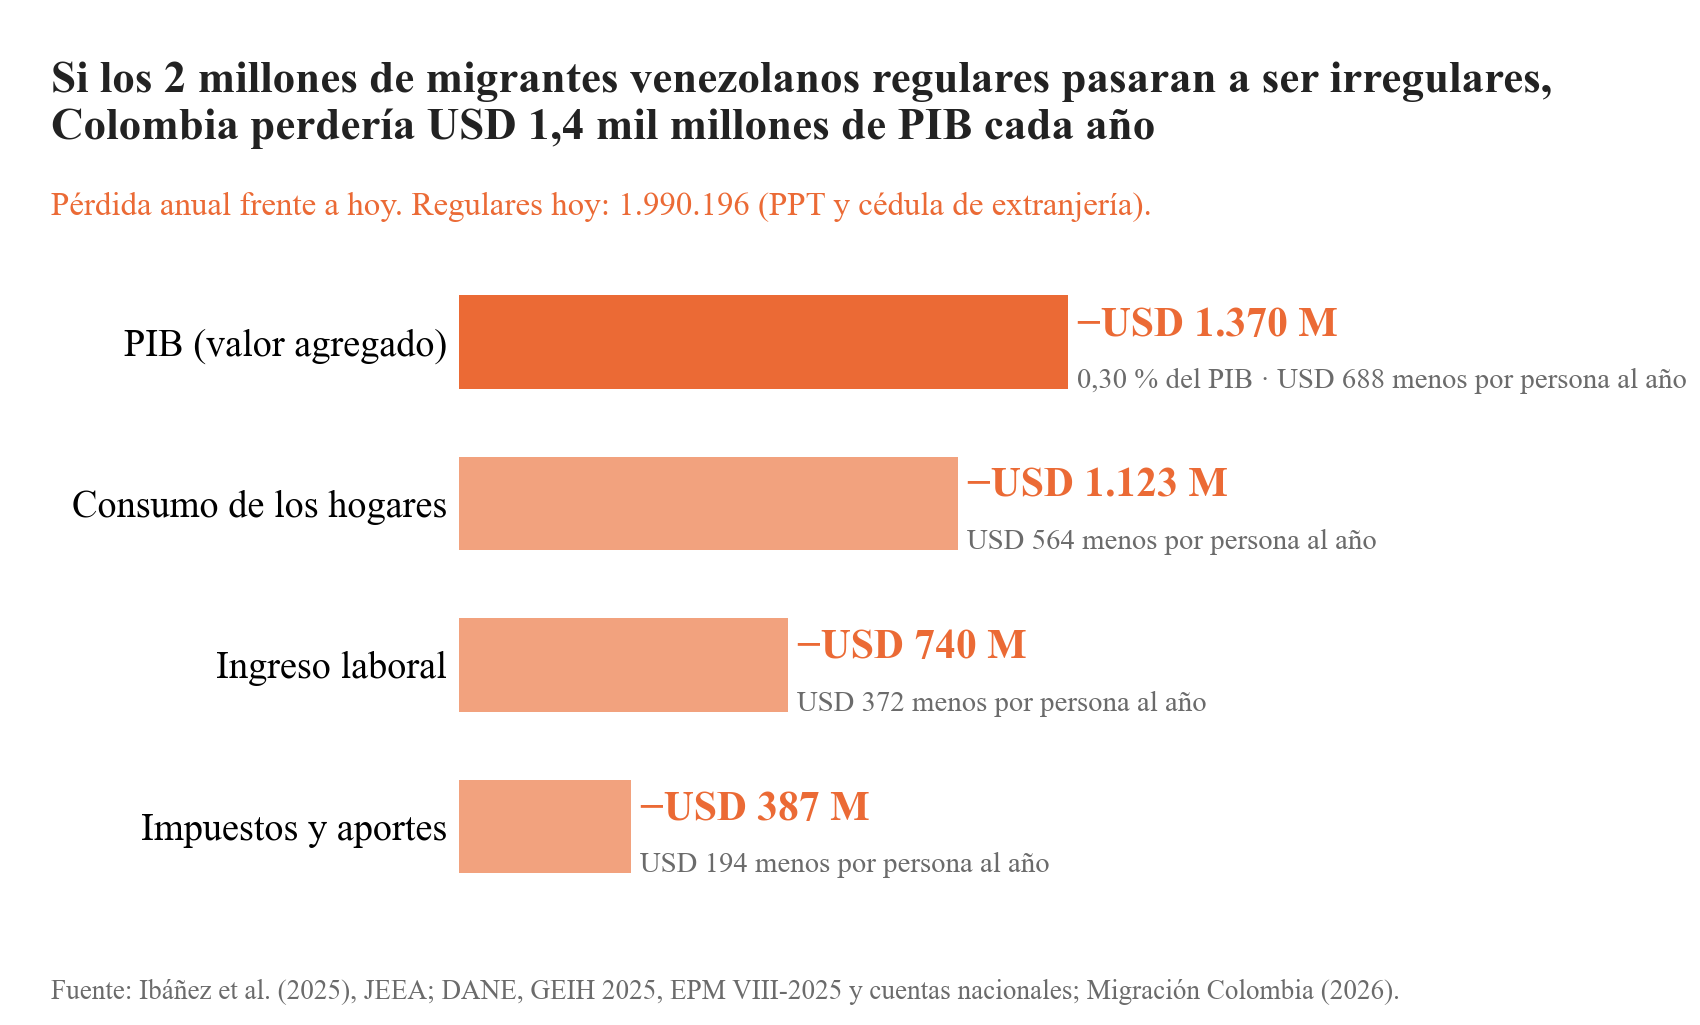
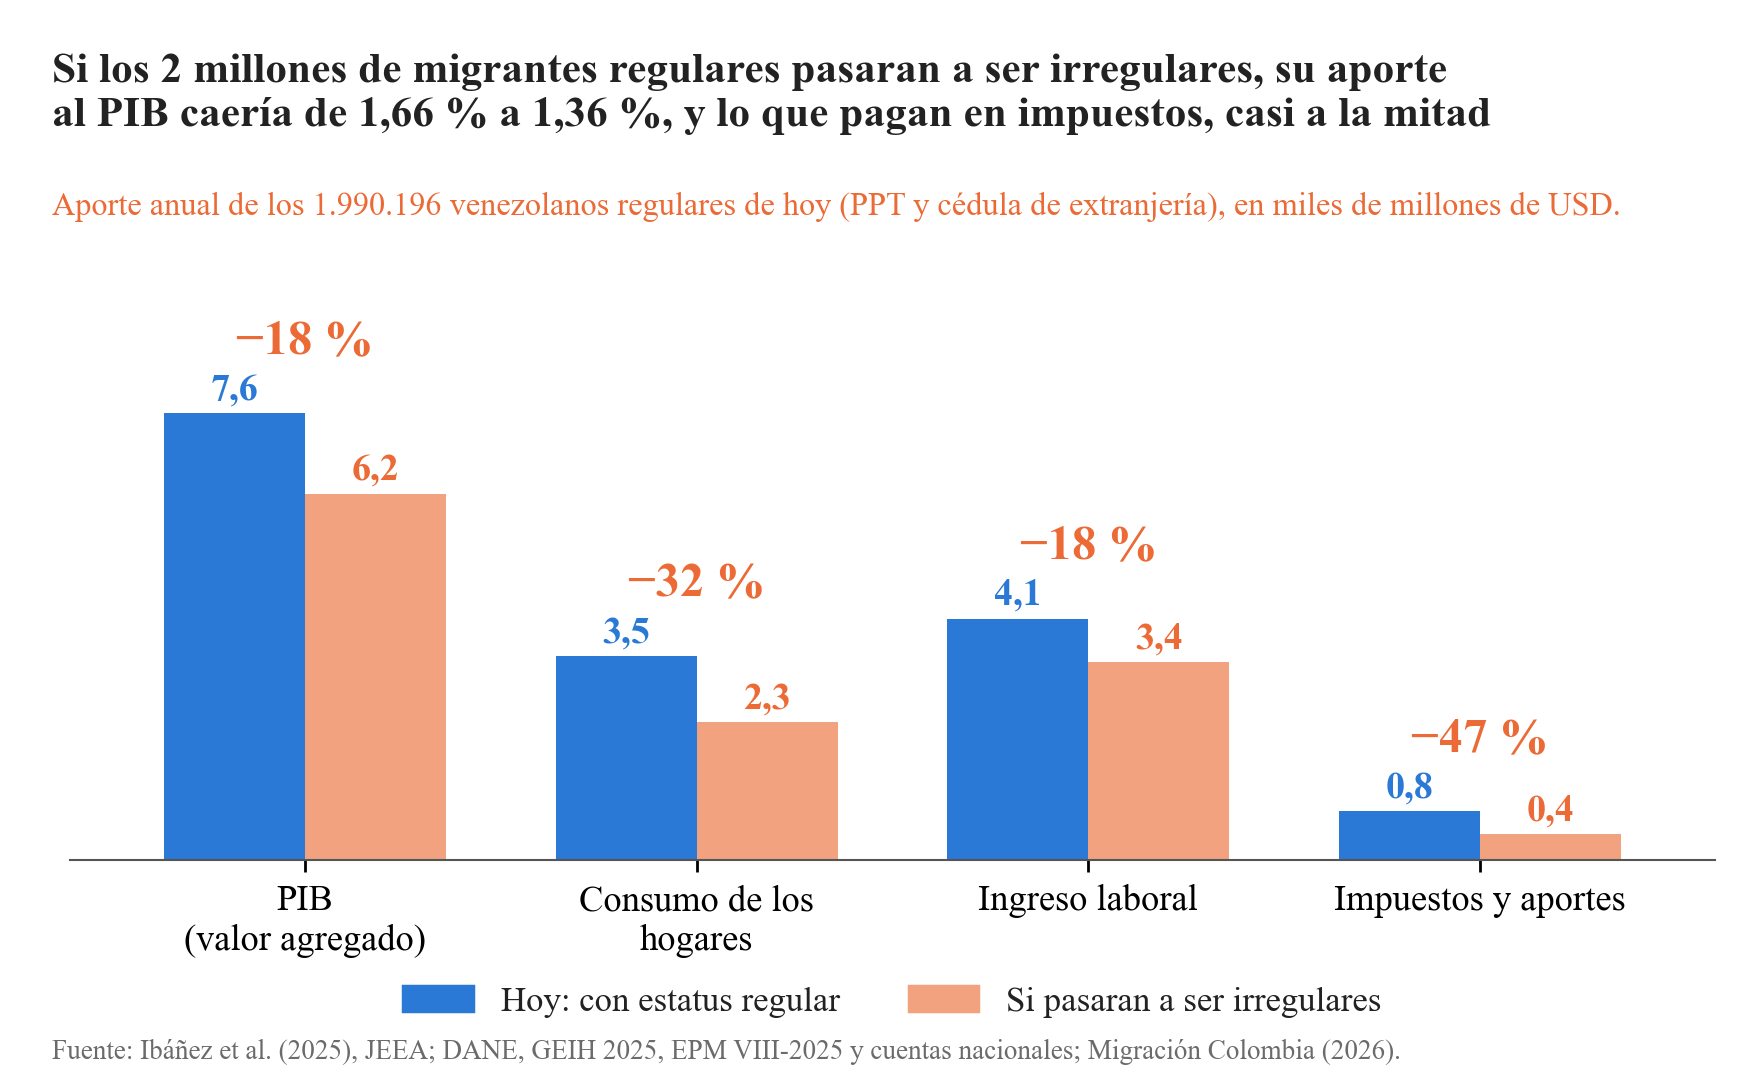
Grafico sin regularidad: niveles hoy frente a si pasaran a ser irregulares

Changed region(s): [[0.0312, 0.281, 0.9976, 0.999], [0.0312, 0.0312, 0.9353, 0.2185], [0.7482, 0.6556, 0.9353, 0.8741]]

diff --git a/Code/28_grafico_sin_regularidad.py b/Code/28_grafico_sin_regularidad.py
@@ -30,30 +30,31 @@ ing_prom = 13.8e12 / 1.76e6
 ing_irr = ing_prom / ((1 - COB) + COB * (1 + EF_ING)); ing_reg = ing_irr * (1 + EF_ING)
 cons_prom = ing_prom * 0.8
 cons_irr = cons_prom / ((1 - COB) + COB * (1 + EF_CONS)); cons_reg = cons_irr * (1 + EF_CONS)
-d_ing = (ing_reg - ing_irr) / TRM
-d = {"PIB (valor agregado)": d_ing / SH_LAB,
-     "Consumo de los hogares": (cons_reg - cons_irr) / TRM,
-     "Ingreso laboral": d_ing,
-     "Impuestos y aportes": (935.19 - 498.0) / 2.25}
-tot = {k: v * REGULARES / 1e6 for k, v in d.items()}
-pib_pct = 100 * tot["PIB (valor agregado)"] * 1e6 * TRM / PIB
-pd.DataFrame({"indicador": list(d), "perdida_por_persona_USD_anual": list(d.values()), "perdida_total_USD_M_anual": list(tot.values())}).round(1).to_csv(
-    TAB / "t28_sin_regularidad.csv", index=False)
+lev = {"PIB (valor agregado)": (ing_reg / SH_LAB / TRM, ing_irr / SH_LAB / TRM),
+       "Consumo de los hogares": (cons_reg / TRM, cons_irr / TRM),
+       "Ingreso laboral": (ing_reg / TRM, ing_irr / TRM),
+       "Impuestos y aportes": (935.19 / 2.25, 498.0 / 2.25)}
+tot = {k: (a * REGULARES / 1e9, b * REGULARES / 1e9) for k, (a, b) in lev.items()}
+pib_hoy, pib_irr = (100 * v * 1e9 * TRM / PIB for v in tot["PIB (valor agregado)"])
+pd.DataFrame({"indicador": list(tot), "hoy_regulares_USD_miles_M": [a for a, b in tot.values()], "si_irregulares_USD_miles_M": [b for a, b in tot.values()],
+              "perdida_USD_M": [(a - b) * 1e3 for a, b in tot.values()], "caida_pct": [100 * (1 - b / a) for a, b in tot.values()]}).round(2).to_csv(TAB / "t28_sin_regularidad.csv", index=False)
 
-fig, ax = plt.subplots(figsize=(6.8, 4.1)); fig.subplots_adjust(left=0.27, right=0.95, top=0.74, bottom=0.12)
-labs = list(d)[::-1]; vals = [tot[k] for k in labs]
-cols = [ORANGE if k == "PIB (valor agregado)" else "#f2a27e" for k in labs]
-y = np.arange(len(labs))
-ax.barh(y, vals, 0.58, color=cols)
-for yi, k, v in zip(y, labs, vals):
-    extra = f"{pc(pib_pct)} % del PIB · " if k == "PIB (valor agregado)" else ""
-    ax.text(v + 20, yi + 0.1, f"−USD {miles(v)} M", va="center", fontsize=12, fontweight="bold", color=ORANGE)
-    ax.text(v + 20, yi - 0.24, f"{extra}USD {miles(d[k])} menos por persona al año", va="center", fontsize=8.3, color=GRAY)
-ax.set_yticks(y); ax.set_yticklabels(labs, fontsize=11); ax.tick_params(axis="y", length=0)
-ax.set_xticks([]); ax.spines["left"].set_visible(False); ax.spines["bottom"].set_visible(False); ax.set_xlim(0, 2600)
-fig.text(0.03, 0.94, f"Si los 2 millones de migrantes venezolanos regulares pasaran a ser irregulares," + NL +
-         f"Colombia perdería USD {pc(tot['PIB (valor agregado)'] / 1e3, 1)} mil millones de PIB cada año", fontsize=13, fontweight="bold", ha="left", va="top")
-fig.text(0.03, 0.79, f"Pérdida anual frente a hoy. Regulares hoy: {miles(REGULARES)} (PPT y cédula de extranjería).", fontsize=9.5, ha="left", color=ORANGE)
-fig.text(0.03, 0.025, "Fuente: Ibáñez et al. (2025), JEEA; DANE, GEIH 2025, EPM VIII-2025 y cuentas nacionales; Migración Colombia (2026).", fontsize=7.8, color=GRAY, ha="left")
+fig, ax = plt.subplots(figsize=(7.0, 4.3)); fig.subplots_adjust(left=0.04, right=0.98, top=0.72, bottom=0.2)
+x = np.arange(4); w = 0.36; names = list(tot)
+for i, k in enumerate(names):
+    a, b = tot[k]
+    ax.bar(i - w / 2, a, w, color=BLUE); ax.bar(i + w / 2, b, w, color="#f2a27e")
+    ax.text(i - w / 2, a + 0.1, pc(a, 1), ha="center", va="bottom", fontsize=11, fontweight="bold", color=BLUE)
+    ax.text(i + w / 2, b + 0.1, pc(b, 1), ha="center", va="bottom", fontsize=11, fontweight="bold", color=ORANGE)
+    ax.text(i, a + 0.85, f"−{100 * (1 - b / a):.0f} %", ha="center", va="bottom", fontsize=14, fontweight="bold", color=ORANGE)
+ax.set_xticks(x); ax.set_xticklabels([n.replace(" (", NL + "(").replace("de los ", "de los" + NL) for n in names], fontsize=10.5)
+ax.set_yticks([]); ax.spines["left"].set_visible(False); ax.set_ylim(0, 9.5); ax.set_xlim(-0.6, 3.6)
+ax.legend(handles=[plt.Rectangle((0, 0), 1, 1, color=BLUE), plt.Rectangle((0, 0), 1, 1, color="#f2a27e")],
+          labels=["Hoy: con estatus regular", "Si pasaran a ser irregulares"], loc="upper center", bbox_to_anchor=(0.5, -0.17), ncol=2, frameon=False, fontsize=10)
+fig.text(0.03, 0.95, "Si los 2 millones de migrantes regulares pasaran a ser irregulares, su aporte" + NL +
+         f"al PIB caería de {pc(pib_hoy)} % a {pc(pib_irr)} %, y lo que pagan en impuestos, casi a la mitad", fontsize=12.5, fontweight="bold", ha="left", va="top")
+fig.text(0.03, 0.8, f"Aporte anual de los {miles(REGULARES)} venezolanos regulares de hoy (PPT y cédula de extranjería), en miles de millones de USD.",
+         fontsize=9.3, ha="left", color=ORANGE)
+fig.text(0.03, 0.015, "Fuente: Ibáñez et al. (2025), JEEA; DANE, GEIH 2025, EPM VIII-2025 y cuentas nacionales; Migración Colombia (2026).", fontsize=7.8, color=GRAY, ha="left")
 fig.savefig(FIG / "pr15_sin_regularidad.png", dpi=250, facecolor="white"); plt.close(fig)
-print({k: (round(d[k]), round(tot[k])) for k in d}, "PIB %", round(pib_pct, 3))
+print({k: (round(a, 2), round(b, 2)) for k, (a, b) in tot.items()}, round(pib_hoy, 2), round(pib_irr, 2))
